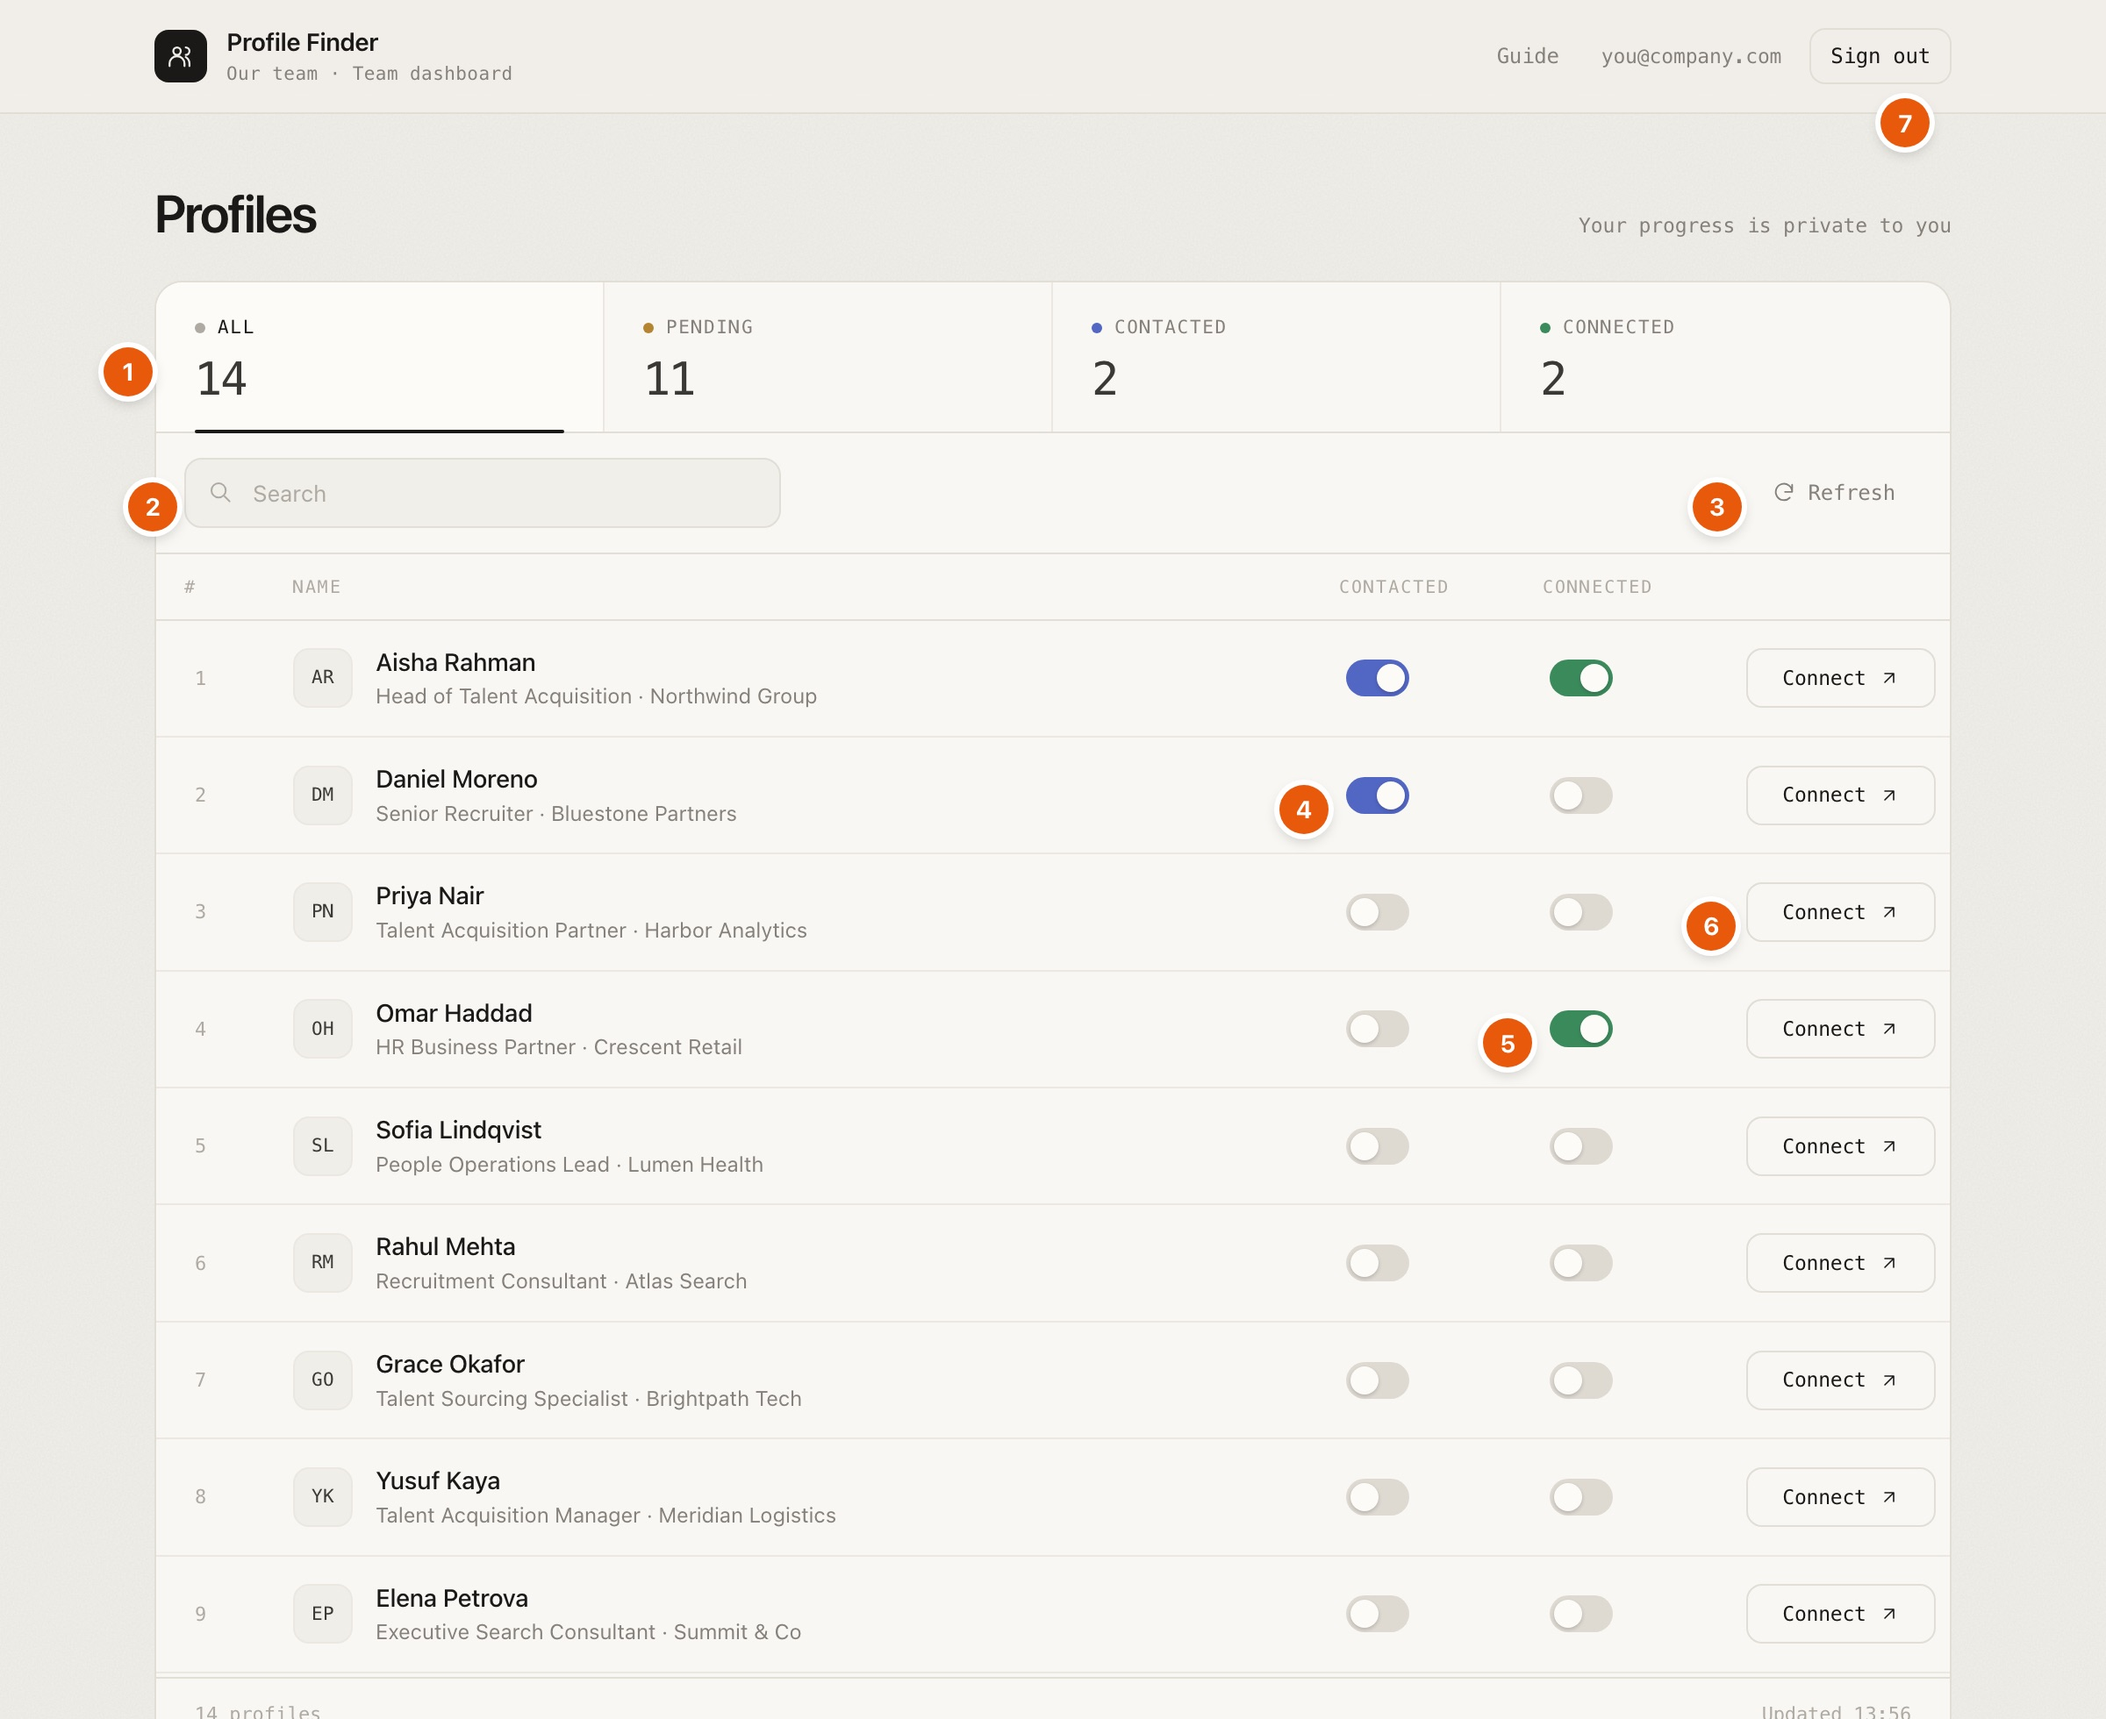
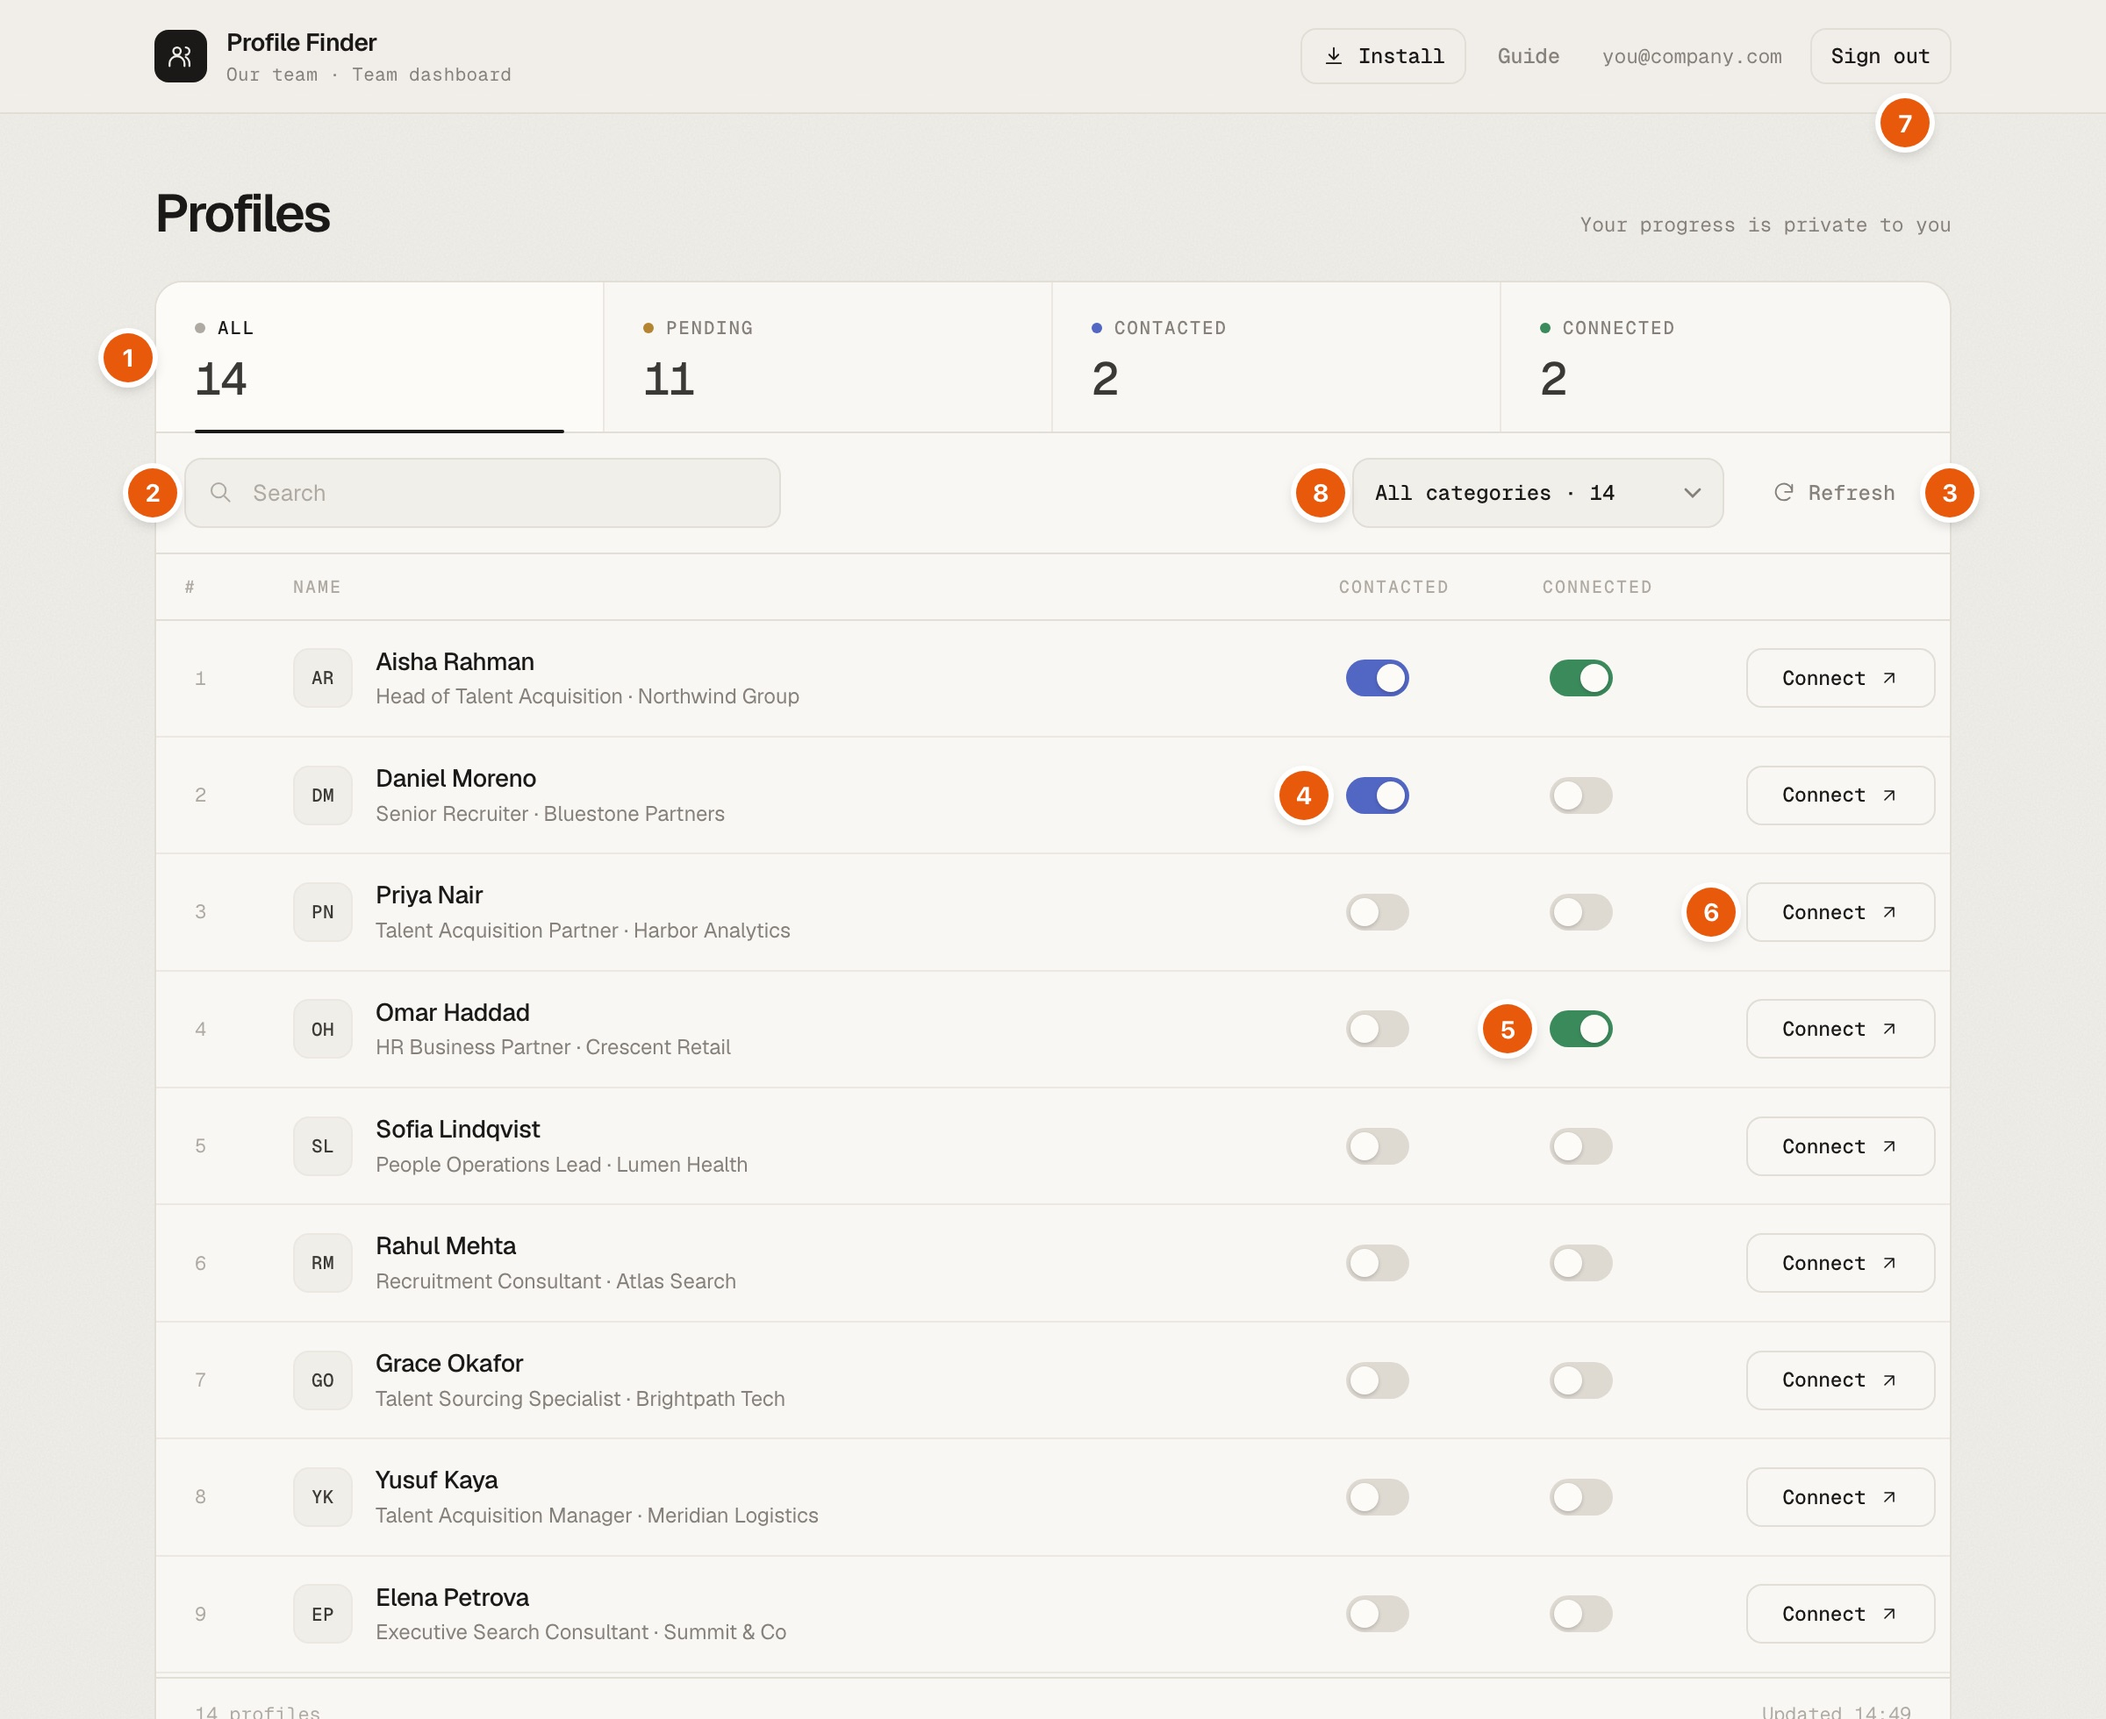
Add files via upload

diff --git a/help.html b/help.html
@@ -74,7 +74,7 @@
       <li><strong>Contacted switch</strong><span>Turn it on when you have messaged someone, so you remember.</span></li>
       <li><strong>Connected switch</strong><span>Shows who you have connected with. Turn it off if you didn’t connect.</span></li>
       <li><strong>Your progress is private</strong><span>Your switches are only yours. Teammates don’t see them, and you don’t see theirs.</span></li>
-      <li><strong>Filter and search</strong><span>See only Pending, Contacted or Connected people, or search by name, role or company.</span></li>
+      <li><strong>Filter and search</strong><span>Pick a category (for example Talent Acquisition), see only Pending, Contacted or Connected people, or search by name, role or company.</span></li>
       <li><strong>Install it as an app</strong><span>Add it to your phone’s home screen or your computer, like any other app.</span></li>
     </ul>
   </section>
@@ -120,7 +120,7 @@
     <h2>Using the dashboard</h2>
     <p>After you sign in, you see the list of profiles. Here is what each part does:</p>
     <figure>
-      <img src="guide/dashboard.jpg" width="1200" height="980" loading="lazy" alt="The dashboard with numbered markers: 1 status counters, 2 search box, 3 Refresh button, 4 Contacted switch, 5 Connected switch, 6 Connect button, 7 Sign out.">
+      <img src="guide/dashboard.jpg" width="1200" height="980" loading="lazy" alt="The dashboard with numbered markers: 1 status counters, 2 search box, 3 Refresh button, 4 Contacted switch, 5 Connected switch, 6 Connect button, 7 Sign out, 8 category filter.">
       <figcaption>The dashboard. Numbers match the list below.</figcaption>
     </figure>
     <ol class="legend">
@@ -131,6 +131,7 @@
       <li><strong>Connected switch.</strong> On (green) means you have connected. It turns on by itself when you click Connect.</li>
       <li><strong>Connect.</strong> Opens the person’s profile in the LinkedIn app on phones, or in your browser on a computer.</li>
       <li><strong>Sign out.</strong> Use this on shared or public computers.</li>
+      <li><strong>Category.</strong> Choose a category, such as Talent Acquisition, to see only those people. The counters and the list follow your choice, and it is remembered next time.</li>
     </ol>
 
     <h3>How to connect with someone</h3>
@@ -147,7 +148,7 @@
     <p class="tip"><strong>Opened a profile but didn’t send an invitation?</strong> Click the Connected switch to turn it off again.</p>
 
     <h3>See only one group</h3>
-    <p>Click <strong>Pending</strong>, <strong>Contacted</strong> or <strong>Connected</strong> at the top to see just those people. Click <strong>All</strong> to see everyone again.</p>
+    <p>Choose a <strong>category</strong> from the menu next to Refresh, for example <em>Talent Acquisition</em>. Then click <strong>Pending</strong>, <strong>Contacted</strong> or <strong>Connected</strong> at the top to narrow it further. Choose <strong>All categories</strong> and click <strong>All</strong> to see everyone again.</p>
     <figure>
       <img src="guide/filter.jpg" width="1200" height="760" loading="lazy" alt="The Connected filter selected, showing only the people marked Connected.">
       <figcaption>Showing only the people you are connected with.</figcaption>

diff --git a/app.js b/app.js
@@ -284,13 +284,13 @@ function setCount(el, value) {
   if (changed) { el.classList.remove("bump"); void el.offsetWidth; el.classList.add("bump"); }
 }
 
-// The category picker appears only when profiles have more than one category.
+// Category filter: shown whenever profiles have categories (after the category migration).
 function renderCategories() {
   const select = $("categoryFilter");
   const tally = new Map();
   for (const r of rows) if (r.category) tally.set(r.category, (tally.get(r.category) || 0) + 1);
   if (category !== "all" && !tally.has(category)) category = "all";
-  select.hidden = tally.size < 2;
+  select.hidden = tally.size === 0;
   const options = [["all", `All categories · ${rows.length.toLocaleString()}`],
     ...[...tally].sort((a, b) => a[0].localeCompare(b[0])).map(([name, n]) => [name, `${name} · ${n.toLocaleString()}`])];
   const html = options.map(([value, label]) => `<option value="${esc(value)}"${value === category ? " selected" : ""}>${esc(label)}</option>`).join("");

diff --git a/sw.js b/sw.js
@@ -1,7 +1,7 @@
 // Profile Finder service worker: makes the dashboard installable and quick to open.
 // Only this site's own files are cached. Requests to Supabase (sign-in and data)
 // are never intercepted or stored.
-const VERSION = "pf-v1";
+const VERSION = "pf-v2";
 const SHELL = [
   "./", "index.html", "help.html", "app.js", "config.js", "styles.css", "manifest.webmanifest",
   "fonts/geist-latin.woff2", "fonts/geist-mono-latin.woff2",
